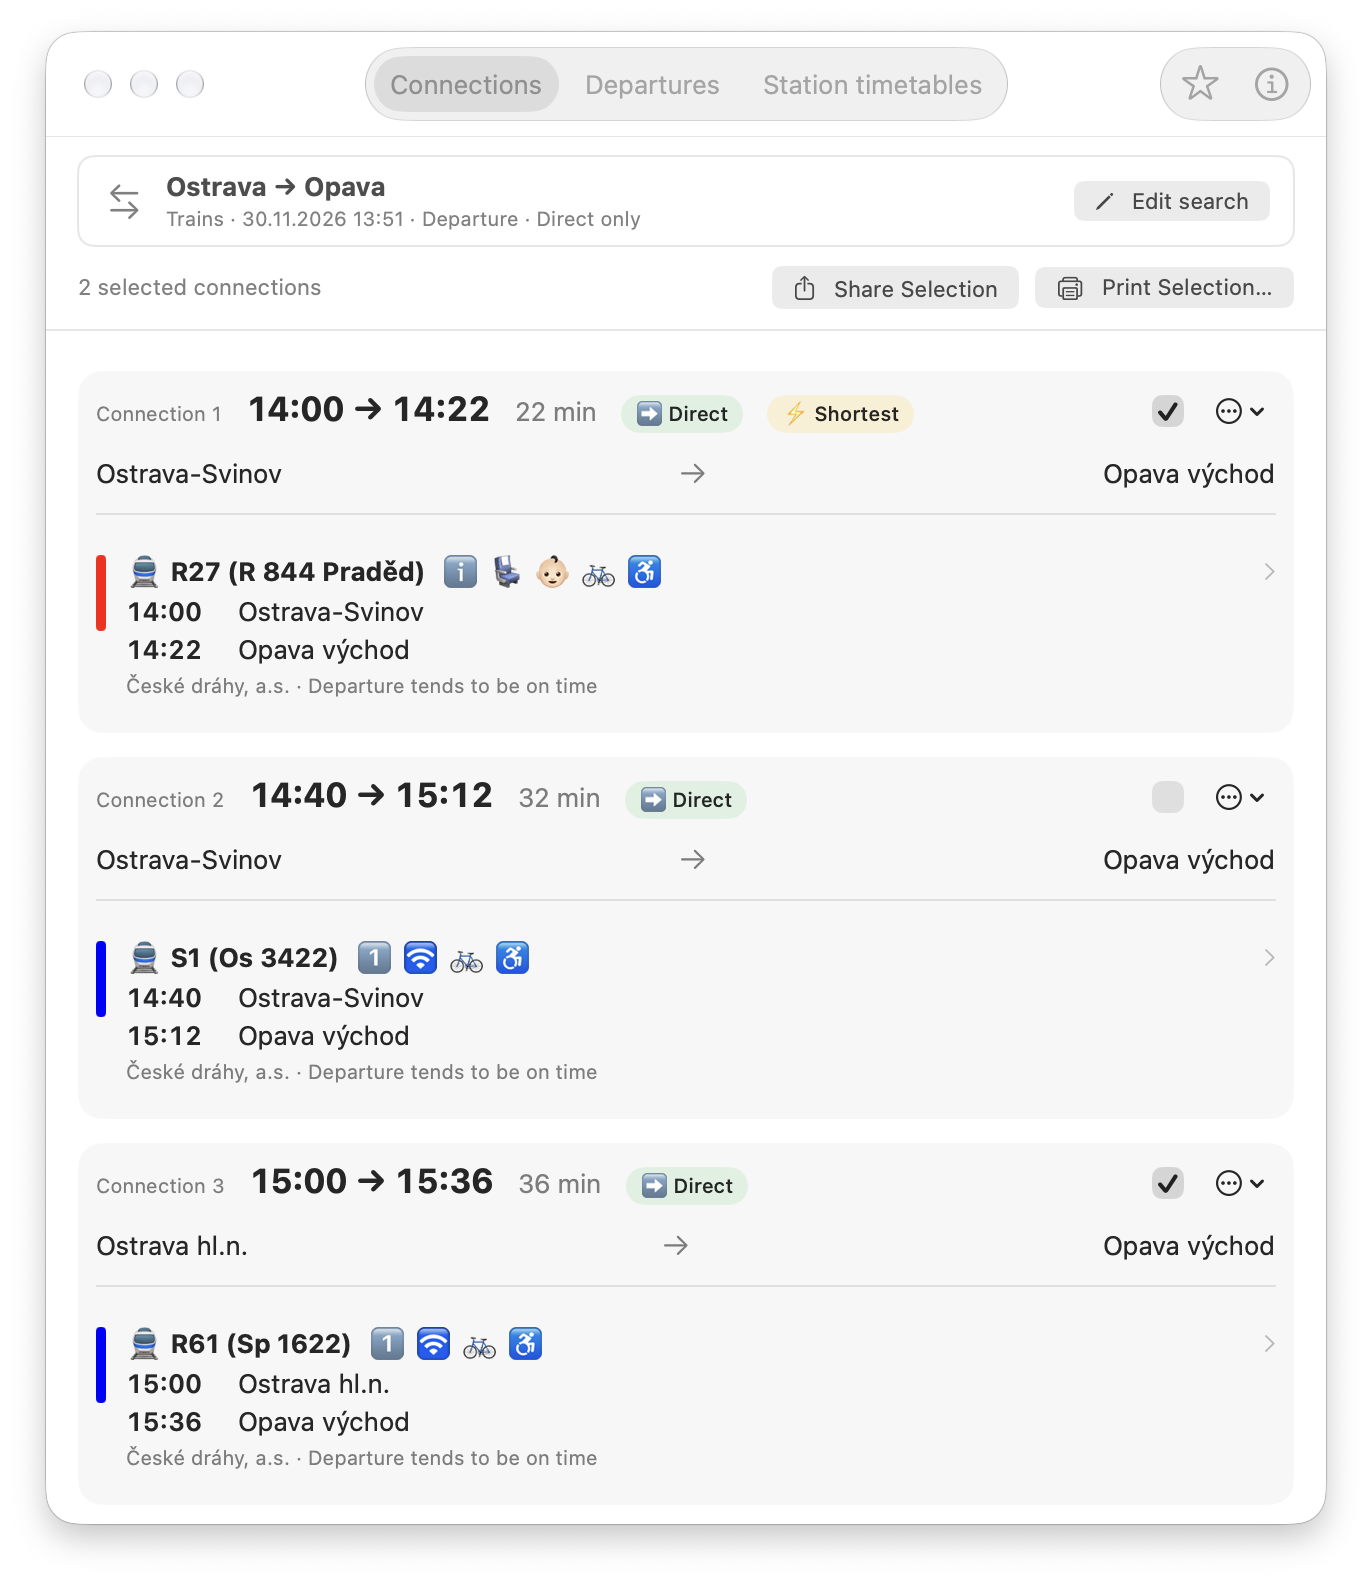
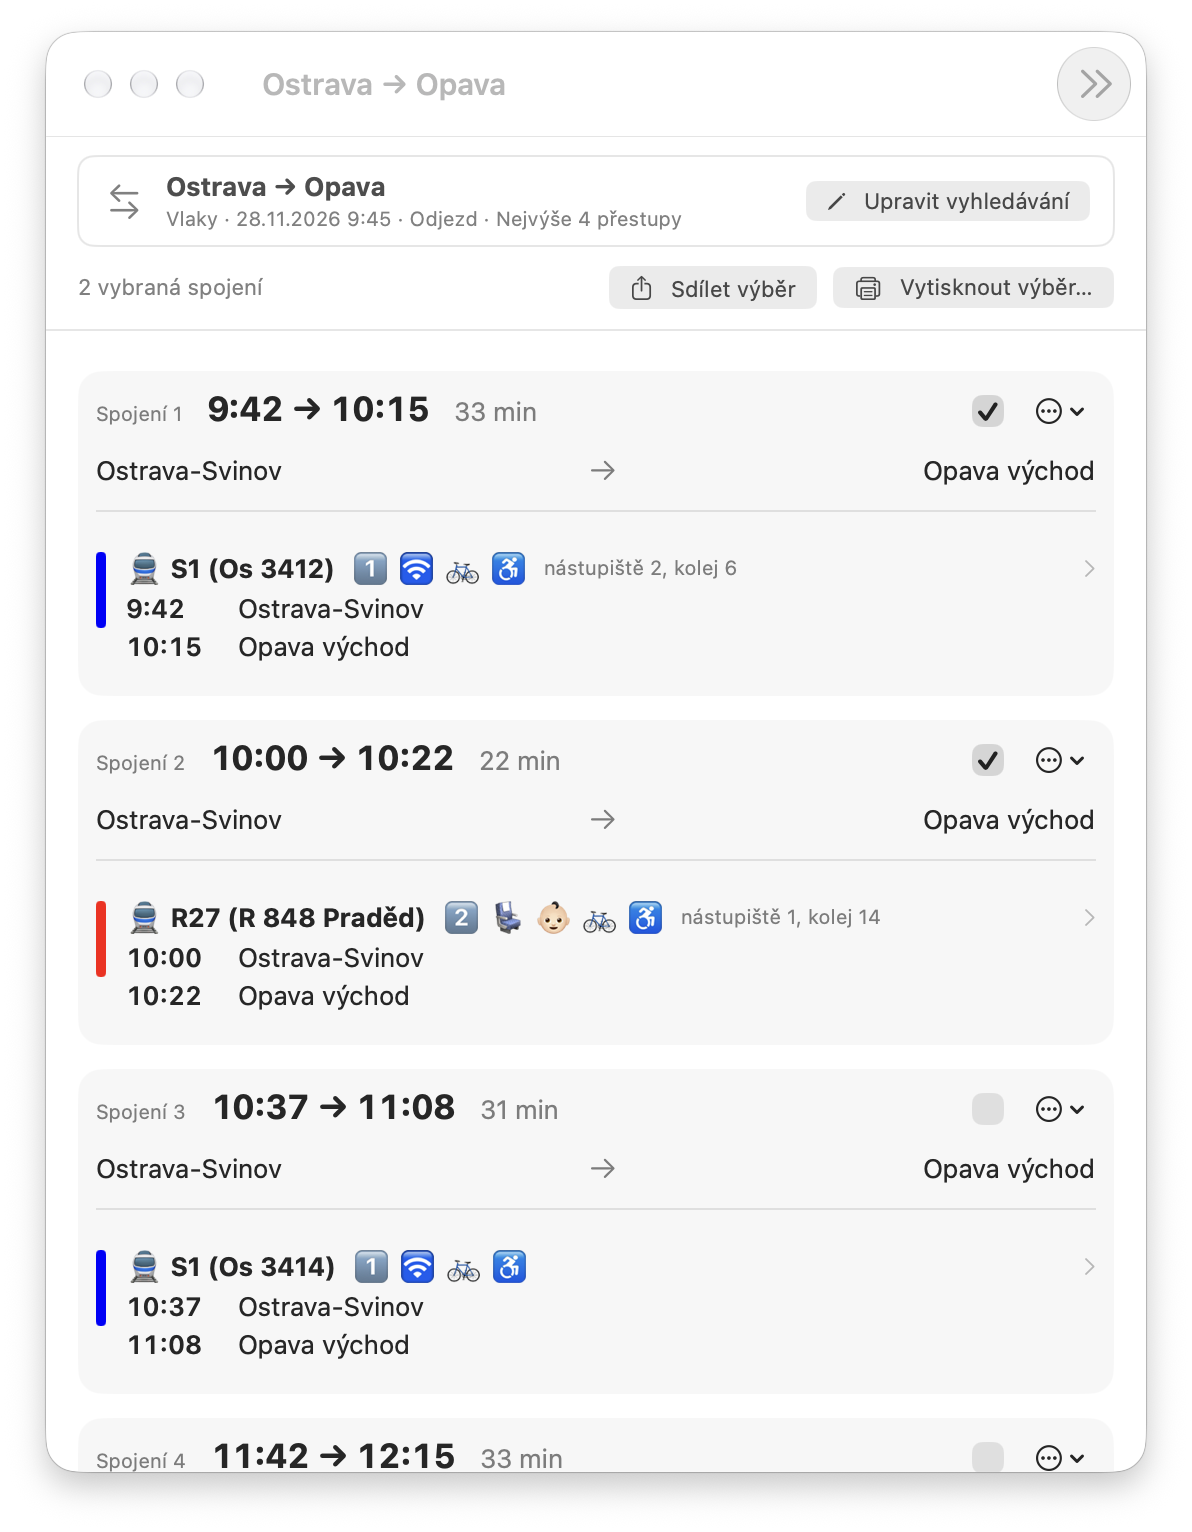
Capture the README image with the macOS screenshot tool

diff --git a/README.md b/README.md
@@ -5,7 +5,7 @@
 A native SwiftUI app for connections, station boards, and urban public-transport timetables on macOS 13 or newer.
 It uses the [Kaštan Swift library](https://github.com/Glutexo/kastan) to search IDOS.
 
-![Kaštan for macOS with two Ostrava–Opava train connections selected and the Share Selection and Print Selection buttons visible](docs/images/kastan-macos-connections.png)
+![Kaštan for macOS in Czech with two Ostrava–Opava connections selected and the bulk share and print buttons visible](docs/images/kastan-macos-connections.png)
 
 See [downloads](https://github.com/Glutexo/kastan-macos/releases) for app releases. Downloads up to and including
 0.10.0 are available in the [original repository](https://github.com/Glutexo/kastan/releases/tag/v0.10.0).
